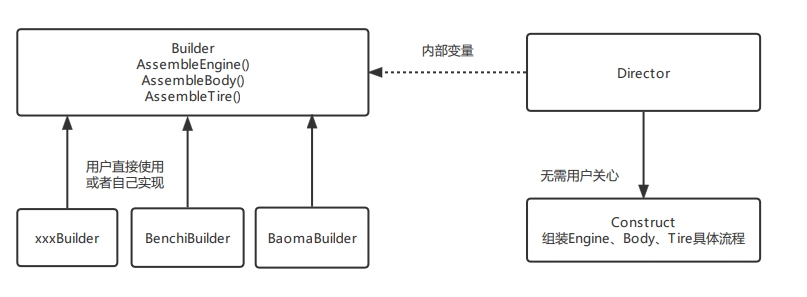
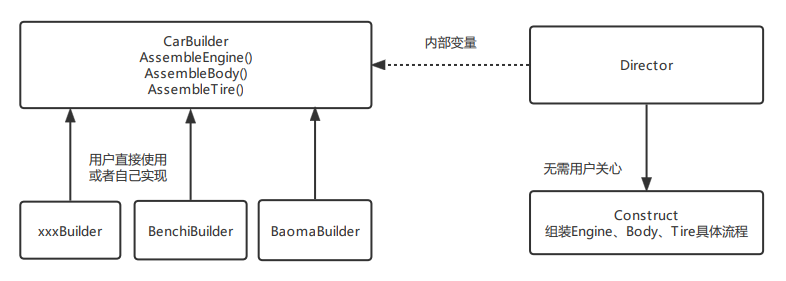
桥接模式

Changed region(s): [[0.0, 0.0569, 0.9771, 0.9395], [0.5191, 0.1139, 0.6107, 0.1993], [0.7634, 0.1993, 0.855, 0.2847]]

diff --git a/designpatterns/13bridge/bridge.go b/designpatterns/13bridge/bridge.go
@@ -1,0 +1,74 @@
+package bridge
+
+import "fmt"
+
+// 桥接模式
+// 有个jb用
+
+type AbstractMessage interface {
+	SendMessage(text, to string)
+}
+
+// 普通信息
+type CommonMessage struct {
+	messageImplement MessageImplement
+}
+
+func NewCommonMessage(method MessageImplement) AbstractMessage{
+	return &CommonMessage{
+		method,
+	}
+}
+
+func  (c *CommonMessage) SendMessage(text, to string){
+	c.messageImplement.Send(text,to)
+}
+
+
+// 紧急信息
+type UrgencyMessage struct {
+	messageImplement MessageImplement
+}
+
+func NewUrgencyMessage(method MessageImplement) AbstractMessage{
+	return &UrgencyMessage{
+		method,
+	}
+}
+
+func  (u *UrgencyMessage) SendMessage(text, to string){
+	u.messageImplement.Send("[UrgencyMessage]:"+text,to)
+}
+
+
+type MessageImplement interface {
+	Send(text,to string)
+}
+
+
+// SMS发送
+type MessageSMS struct {
+
+}
+
+func NewSMS()MessageImplement{
+	return &MessageSMS{}
+}
+
+func (m *MessageSMS)Send(text,to string){
+	fmt.Println("send sms:",fmt.Sprintf("[%s]",text),"to",to)
+}
+
+
+// Email发送
+type MessageEmail struct {
+	
+}
+
+func NewEmail()MessageImplement{
+	return &MessageEmail{}
+}
+
+func (m *MessageEmail)Send(text,to string){
+	fmt.Println("send email:",fmt.Sprintf("[%s]",text),"to",to)
+}

diff --git a/designpatterns/04builder/builder.go b/designpatterns/04builder/builder.go
@@ -6,7 +6,7 @@ import "fmt"
 // 用户无需关系内部实现，只需要创建BenchiBuilder、BaomaBuilder即可
 // 用户手动实现Builder也无需关心内部的组装流程，只关注单独的每一个部件即可
 
-type Builder interface {
+type CarBuilder interface {
 	// 组装发动机
 	AssembleEngine()
 	// 组装车身
@@ -16,10 +16,10 @@ type Builder interface {
 }
 
 type Director struct {
-	builder Builder
+	builder CarBuilder
 }
 
-func NewDirector(builder Builder)*Director{
+func NewDirector(builder CarBuilder)*Director{
 	return &Director{
 		builder: builder,
 	}

diff --git a/designpatterns/13bridge/bridge_test.go b/designpatterns/13bridge/bridge_test.go
@@ -1,0 +1,11 @@
+package bridge
+
+import "testing"
+
+func TestBridge(t *testing.T){
+	message := NewCommonMessage(NewSMS())
+	message.SendMessage("Hello World","Herry")
+
+	urgencyMessage := NewUrgencyMessage(NewEmail())
+	urgencyMessage.SendMessage("有内鬼终止交易","Jack")
+}
